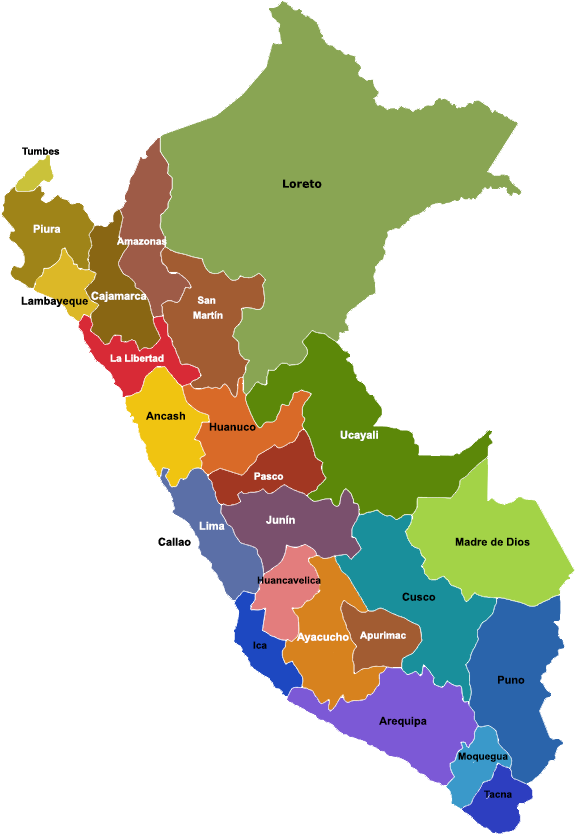
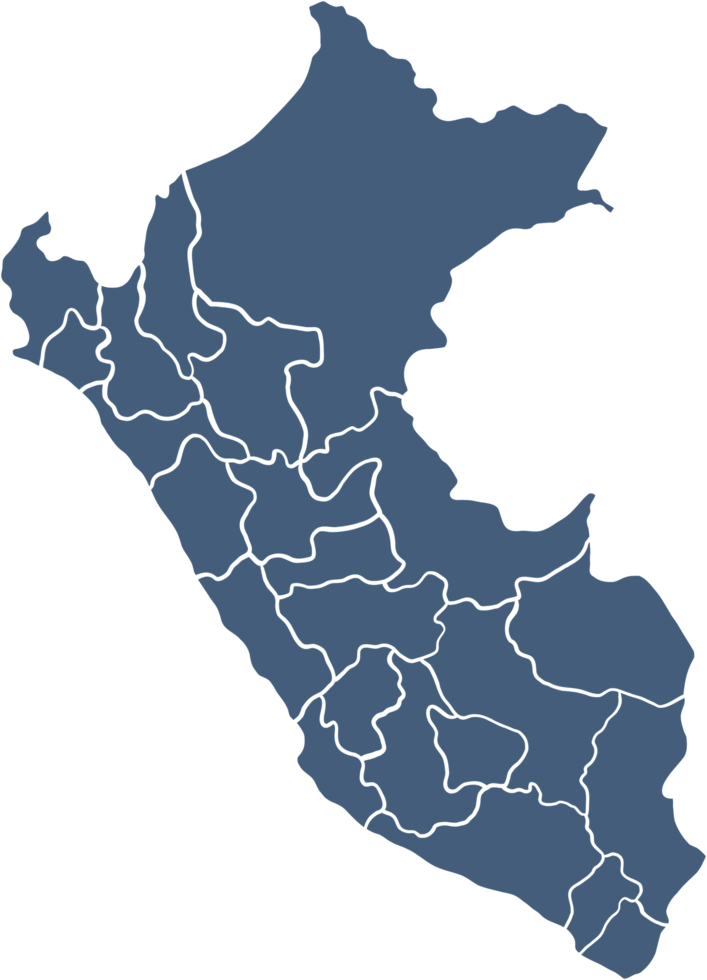
Optimizing UI design

diff --git a/src/components/Section/Home/Hero.tsx b/src/components/Section/Home/Hero.tsx
@@ -21,7 +21,7 @@ export default function Hero() {
                 <div className="flex flex-col lg:flex-row gap-4 w-full h-full">
                     <div className="h-auto flex flex-col gap-4 w-full lg:w-9/12 flex-auto">
                         <div className="flex flex-col lg:flex-row gap-4 w-full h-fit shrink-0">
-                            <div className="p-4 lg:p-6 lg:pb-8 flex flex-col gap-1 bg-white border shadow-sm overflow-hidden rounded-xl w-full lg:w-7/12">
+                            <div className="p-4 lg:p-6 lg:pb-8 flex flex-col gap-1 bg-white shadow-sm overflow-hidden rounded-xl w-full lg:w-7/12">
                                 <h1
                                     className={`font-medium lg:font-semibold text-2xl ${poppins.className}`}
                                 >
@@ -34,7 +34,7 @@ export default function Hero() {
                                     kegiatan kami di sini!
                                 </span>
                             </div>
-                            <div className="bg-transparent group border shadow-sm relative flex flex-col lg:flex-row overflow-hidden rounded-xl w-full lg:w-5/12 z-0">
+                            <div className="bg-transparent group shadow-sm relative flex flex-col lg:flex-row overflow-hidden rounded-xl w-full lg:w-5/12 z-0">
                                 <div
                                     className={`w-full justify-center lg:w-11/12 flex flex-col p-4 lg:p-6 bg-gradient-to-r from-white via-white to-transparent h-full z-10 ${poppins.className}`}
                                 >
@@ -69,13 +69,13 @@ export default function Hero() {
                             </div>
                         </div>
                         <div className="w-full h-full flex flex-col lg:flex-row gap-4">
-                            <div className="group relative flex flex-col overflow-hidden rounded-xl p-4 lg:p-6 pb-6 lg:pb-0 w-full lg:w-3/12 border shadow-sm gap-4 bg-white">
+                            <div className="group relative flex flex-col overflow-hidden rounded-xl p-4 lg:p-6 pb-6 lg:pb-0 w-full lg:w-3/12 shadow-sm gap-4 bg-white">
                                 <span className="font-semibold text-xl text-stone-800">
                                     Peta Negara Peru
                                 </span>
                                 <div className="w-6/12 lg:w-full mx-auto h-fit px-8">
                                     <Image
-                                        src={'/img/peru/map.png'}
+                                        src={'/img/peru/map2.png'}
                                         alt="Peru"
                                         width={500}
                                         height={500}
@@ -83,7 +83,7 @@ export default function Hero() {
                                     />
                                 </div>
                             </div>
-                            <div className="relative flex flex-col overflow-hidden rounded-xl p-4 lg:p-6 w-full lg:w-9/12 border shadow-sm gap-6 h-auto bg-white">
+                            <div className="relative flex flex-col overflow-hidden rounded-xl p-4 lg:p-6 w-full lg:w-9/12 shadow-sm gap-6 h-auto bg-white">
                                 <div className="w-full h-fit flex flex-col lg:flex-row items-start lg:items-end justify-between gap-3 lg:gap-1">
                                     <div className="w-full flex flex-col">
                                         <h2 className="text-lg font-semibold">
@@ -152,7 +152,7 @@ export default function Hero() {
                         </div>
                     </div>
                     <div className="w-full lg:w-[20%] h-auto flex flex-row lg:flex-col shrink-0 gap-4">
-                        <div className="w-6/12 lg:w-full group border shaodw-sm relative flex items-end overflow-hidden rounded-xl lg:flex-grow h-auto lg:h-60 shrink-0">
+                        <div className="w-6/12 lg:w-full group shaodw-sm relative flex items-end overflow-hidden rounded-xl lg:flex-grow h-auto lg:h-60 shrink-0">
                             <Image
                                 src={'/img/background/bg-1.jpeg'}
                                 alt="Peru"
@@ -161,7 +161,7 @@ export default function Hero() {
                                 className="h-fit w-full"
                             />
                         </div>
-                        <div className="w-6/12 lg:w-full border shadow-sm relative flex flex-col overflow-hidden rounded-xl p-4 lg:p-6 flex-grow lg:h-40 lg:shrink-0 gap-2 bg-white">
+                        <div className="w-6/12 lg:w-full shadow-sm relative flex flex-col overflow-hidden rounded-xl p-4 lg:p-6 flex-grow lg:h-40 lg:shrink-0 gap-2 bg-white">
                             <span className="font-semibold text-lg">
                                 Kontak Kami
                             </span>
@@ -176,7 +176,7 @@ export default function Hero() {
                                     </span>
                                 </Link>
                                 <Link
-                                    href="/"
+                                    href="https://www.tiktok.com/@thisisperu_45?_t=8pWOw1qPJKM&_r=1"
                                     className="text-sm flex items-center gap-2"
                                 >
                                     <FaTiktok />
@@ -185,12 +185,12 @@ export default function Hero() {
                                     </span>
                                 </Link>
                                 <Link
-                                    href="/"
+                                    href="https://youtube.com/@thisisperu?si=_BcbFiYKcLEYReZZ"
                                     className="text-sm flex items-center gap-2"
                                 >
                                     <FaYoutube />
                                     <span className="font-semibold text-stone-600">
-                                        peru.
+                                        This Is Peru
                                     </span>
                                 </Link>
                             </div>

diff --git a/src/components/Section/Information/Structure.tsx b/src/components/Section/Information/Structure.tsx
@@ -60,7 +60,7 @@ export default function Structure() {
                             }
                             className="w-full h-auto flex flex-grow"
                         >
-                            <div className="w-full h-auto shadow-sm border rounded-xl flex flex-grow flex-col gap-2.5 p-4 bg-white cursor-pointer hover:bg-stone-100 transition-all duration-[400ms] hover:shadow">
+                            <div className="w-full h-auto shadow-sm rounded-xl flex flex-grow flex-col gap-2.5 p-4 bg-white cursor-pointer hover:bg-stone-100 transition-all duration-[400ms] hover:shadow">
                                 <div className="w-full aspect-square rounded-xl overflow-hidden relative">
                                     <Image
                                         src={`${member.src}`}
@@ -147,7 +147,7 @@ export default function Structure() {
                                 animate="enter"
                                 exit="exit"
                                 initial="initial"
-                                className="absolute w-full h-full bg-transparent backdrop-blur z-0"
+                                className="absolute w-full h-full bg-black/80 backdrop-blur z-0"
                             ></motion.div>
                             {/* End Overlay */}
                             {/* Modal */}
@@ -176,7 +176,7 @@ export default function Structure() {
                                 animate="enter"
                                 exit="exit"
                                 initial="initial"
-                                className="relative w-96 max-w-[85vw] border min-h-40 lg:min-h-56 bg-white z-10 shadow-sm h-auto p-4 lg:p-5 flex"
+                                className="relative w-96 max-w-[85vw] min-h-40 lg:min-h-56 bg-white z-10 shadow-sm h-auto p-4 lg:p-5 flex"
                             >
                                 {/* Close Button */}
                                 <div

diff --git a/src/components/Section/Information/About.tsx b/src/components/Section/Information/About.tsx
@@ -1,6 +1,5 @@
 'use client'
 
-import { montserrat } from '@/app/fonts'
 import TextReveal from '@/components/Other/TextReveal'
 
 export default function About() {
@@ -10,7 +9,7 @@ export default function About() {
                 id="about"
                 className="w-full lg:w-7/12 h-fit lg:h-auto lg:flex-grow shrink-0 flex flex-col gap-4"
             >
-                <div className="w-full h-full flex gap-2 p-4 lg:p-6 rounded-xl border shadow-sm bg-white">
+                <div className="w-full h-full flex gap-2 p-4 lg:p-6 rounded-xl shadow-sm bg-white">
                     <div className="w-full flex flex-col gap-1">
                         <h2 className="text-xl lg:text-2xl font-semibold">
                             Tentang Kami
@@ -29,7 +28,7 @@ export default function About() {
                         </div>
                     </div>
                 </div>
-                <div className="w-full flex items-end justify-between gap-2 p-4 lg:p-6 rounded-xl border shadow-sm bg-white">
+                <div className="w-full flex items-end justify-between gap-2 p-4 lg:p-6 rounded-xl shadow-sm bg-white">
                     <div className="w-full flex flex-col gap-1">
                         <h2 className="text-xl lg:text-2xl font-semibold">
                             Apa itu Peru?

diff --git a/src/components/Section/Gallery/Gallery.tsx b/src/components/Section/Gallery/Gallery.tsx
@@ -50,7 +50,7 @@ export default function Announcement() {
                         >
                             <Link
                                 href={`/gallery/${gallery.id}`}
-                                className="w-full h-auto flex-grow flex gap-8 justify-between border p-4 bg-white group hover:bg-stone-50 duration-all transition-colors shadow-sm rounded-xl"
+                                className="w-full h-auto flex-grow flex gap-8 justify-between p-4 bg-white group hover:bg-stone-50 duration-all transition-colors shadow-sm rounded-xl"
                             >
                                 <div className="w-full flex flex-col gap-2 lg:gap-2">
                                     <span className="text-sm lg:text-lg font-bold">

diff --git a/src/components/Section/Information/Chant.tsx b/src/components/Section/Information/Chant.tsx
@@ -7,7 +7,7 @@ export default function Chant() {
         <>
             <section
                 id="chant"
-                className="w-full lg:5/12 h-fit lg:flex-grow lg:h-auto flex flex-col p-4 lg:p-6 rounded-xl border bg-white shadow-sm gap-4"
+                className="w-full lg:5/12 h-fit lg:flex-grow lg:h-auto flex flex-col p-4 lg:p-6 rounded-xl bg-white shadow-sm gap-4"
             >
                 <div className="w-full flex items-end justify-between gap-1">
                     <div className="w-full flex flex-col gap-1 lg:gap-2">
